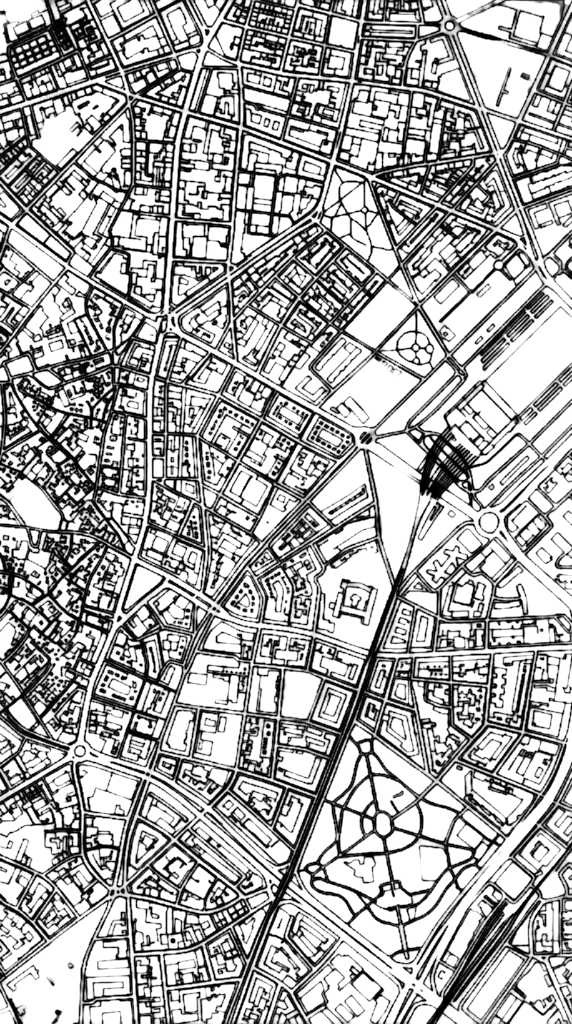
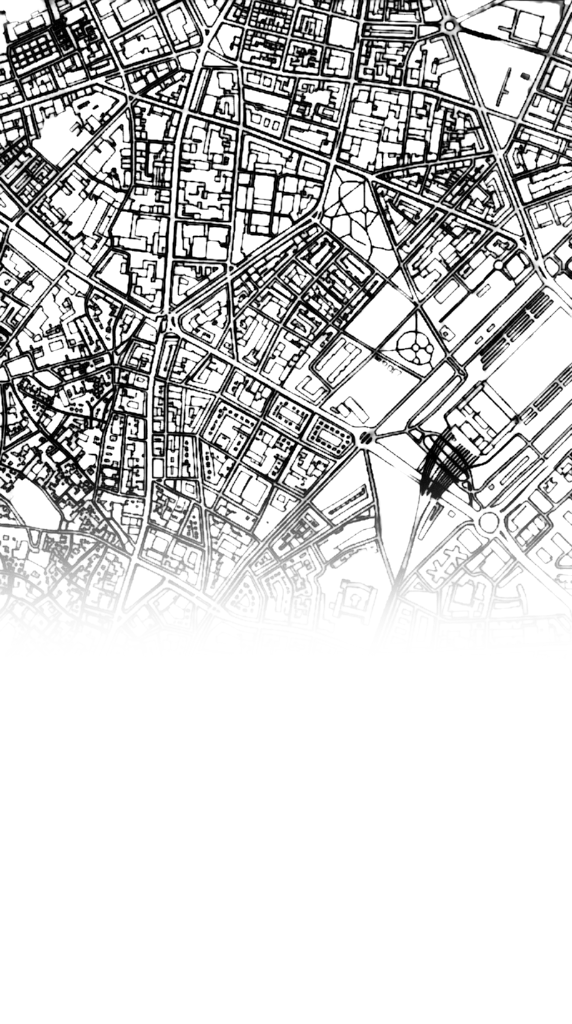
:recycle: refactor: Reaproveitando carrossel para aprimorar Login

Changed region(s): [[0.0, 0.4688, 1.0, 1.0]]

diff --git a/ServSegFacilities/src/app/login/index.tsx b/ServSegFacilities/src/app/login/index.tsx
@@ -1,5 +1,6 @@
 import React, { useEffect, useRef, useState } from "react";
-import { Alert, Animated, Pressable, StyleSheet, Text, TextInput, View} from "react-native";
+import { Alert, Animated, Pressable, StyleSheet, Text, TextInput, View } from "react-native";
+import { LinearGradient } from "expo-linear-gradient"; // <--- Importação
 import { Colors, Font, H1, H2 } from "../../constants/theme";
 import Logo from "../../../assets/imgs/ServSeg Escuro.svg";
 import Biometria from "../../../assets/icons/Biometria.svg";
@@ -9,13 +10,8 @@ import { useRouter } from "expo-router";
 import { useAuthLocal } from "../../hooks/useAuthLocal";
 import ModalBiometria from "../../components/modals/modalBiometria/modalBiometria";
 
-// 1. Nova imagem de fundo para a tela inteira
 const FULL_BACKGROUND = require("../../../assets/imgs/Fundo.png");
-
-// 2. Imagem fixa de fundo (rodapé)
 const BASE_BACKGROUND = require("../../../assets/imgs/FundoMapas.png");
-
-// 3. Apenas os mapas que vão alternar no carrossel
 const MAP_IMAGES = [
   require("../../../assets/imgs/Mapa1.png"),
   require("../../../assets/imgs/Mapa2.png"),
@@ -27,21 +23,15 @@ export default function Login() {
   const fadeAnim = useRef(new Animated.Value(1)).current;
   const [BioAtiva, setBioAtiva] = useState(false);
 
-  // Estado modal para visualização
   const [modalBiometriaVisivel, setModalBiometriaVisivel] = useState(false);
-
   const [email, setEmail] = useState("");
   const [senha, setSenha] = useState("");
-
-  // Armazenamento de email e senha digitados pelos usuário
-  // para caso aceite utilizar a biometria
   const [emailBiometria, setEmailBiometria] = useState("");
   const [senhaBiometria, setSenhaBiometria] = useState("");
 
   const { login } = useAuth();
   const router = useRouter();
 
-  const { resetarDados, ...restanteHook } = useAuthLocal();
   const {
     verificarPrimeiroLogin,
     salvarDados,
@@ -83,7 +73,6 @@ export default function Login() {
         console.warn("Aviso na verificação biométrica:", bioError);
       }
       if (devePerguntarBiometria) {
-        //Salva as informações do usuário e exibe o modal
         setEmailBiometria(emailDigitado);
         setSenhaBiometria(senhaDigitada);
         setModalBiometriaVisivel(true);
@@ -102,13 +91,10 @@ export default function Login() {
   async function cancelarBiometria(): Promise<void> {
     try {
       setModalBiometriaVisivel(false);
-
       await adiarAutenticacaoLocal();
-
       router.replace("/listaRegistro");
     } catch (error) {
       console.error("Erro ao adiar permissão de biometria:", error);
-
       router.replace("/listaRegistro");
     }
   }
@@ -122,20 +108,15 @@ export default function Login() {
           "Biometria indisponível",
           "Este dispositivo não possui biometria compatível ou não possui uma biometria cadastrada.",
         );
-
         return;
       }
 
       await salvarDados(emailBiometria, senhaBiometria);
-
       setBioAtiva(true);
-
       setModalBiometriaVisivel(false);
-
       router.replace("/listaRegistro");
     } catch (error) {
       console.error("Erro ao habilitar biometria:", error);
-
       Alert.alert("Biometria", "Não foi possível habilitar a biometria.");
     }
   }
@@ -143,13 +124,11 @@ export default function Login() {
   async function handleLoginBiometrico() {
     try {
       const resultado = await autenticar();
-
       if (resultado !== null) {
         router.replace("/listaRegistro");
       }
     } catch (error) {
       console.error("Erro na autenticação biométrica:", error);
-
       Alert.alert("Biometria", "Não foi possível autenticar por biometria.");
     }
   }
@@ -186,7 +165,7 @@ export default function Login() {
         backgroundColor: Colors.AzulFundo,
       }}
     >
-      {/* 1. Imagem de Fundo Geral (Com Opacidade Reduzida) */}
+      {/* 1. Imagem de Fundo Geral */}
       <Animated.Image
         source={FULL_BACKGROUND}
         style={localStyles.fullBackgroundImage}
@@ -210,6 +189,12 @@ export default function Login() {
           },
         ]}
         resizeMode="cover"
+      />
+
+      {/* 4. Degradê de Transição entre a tela e o rodapé */}
+      <LinearGradient
+        colors={[Colors.AzulFundo, "transparent"]}
+        style={localStyles.gradientOverlay}
       />
 
       <View style={localStyles.logo}>
@@ -280,6 +265,14 @@ const localStyles = StyleSheet.create({
     height: 350,
     position: "absolute",
     bottom: 0,
+  },
+
+  // Estilo do degradê adicionado
+  gradientOverlay: {
+    position: "absolute",
+    bottom: 0,
+    width: "100%",
+    height: 350, // Mesma altura da imagem de fundo
   },
 
   logo: {
